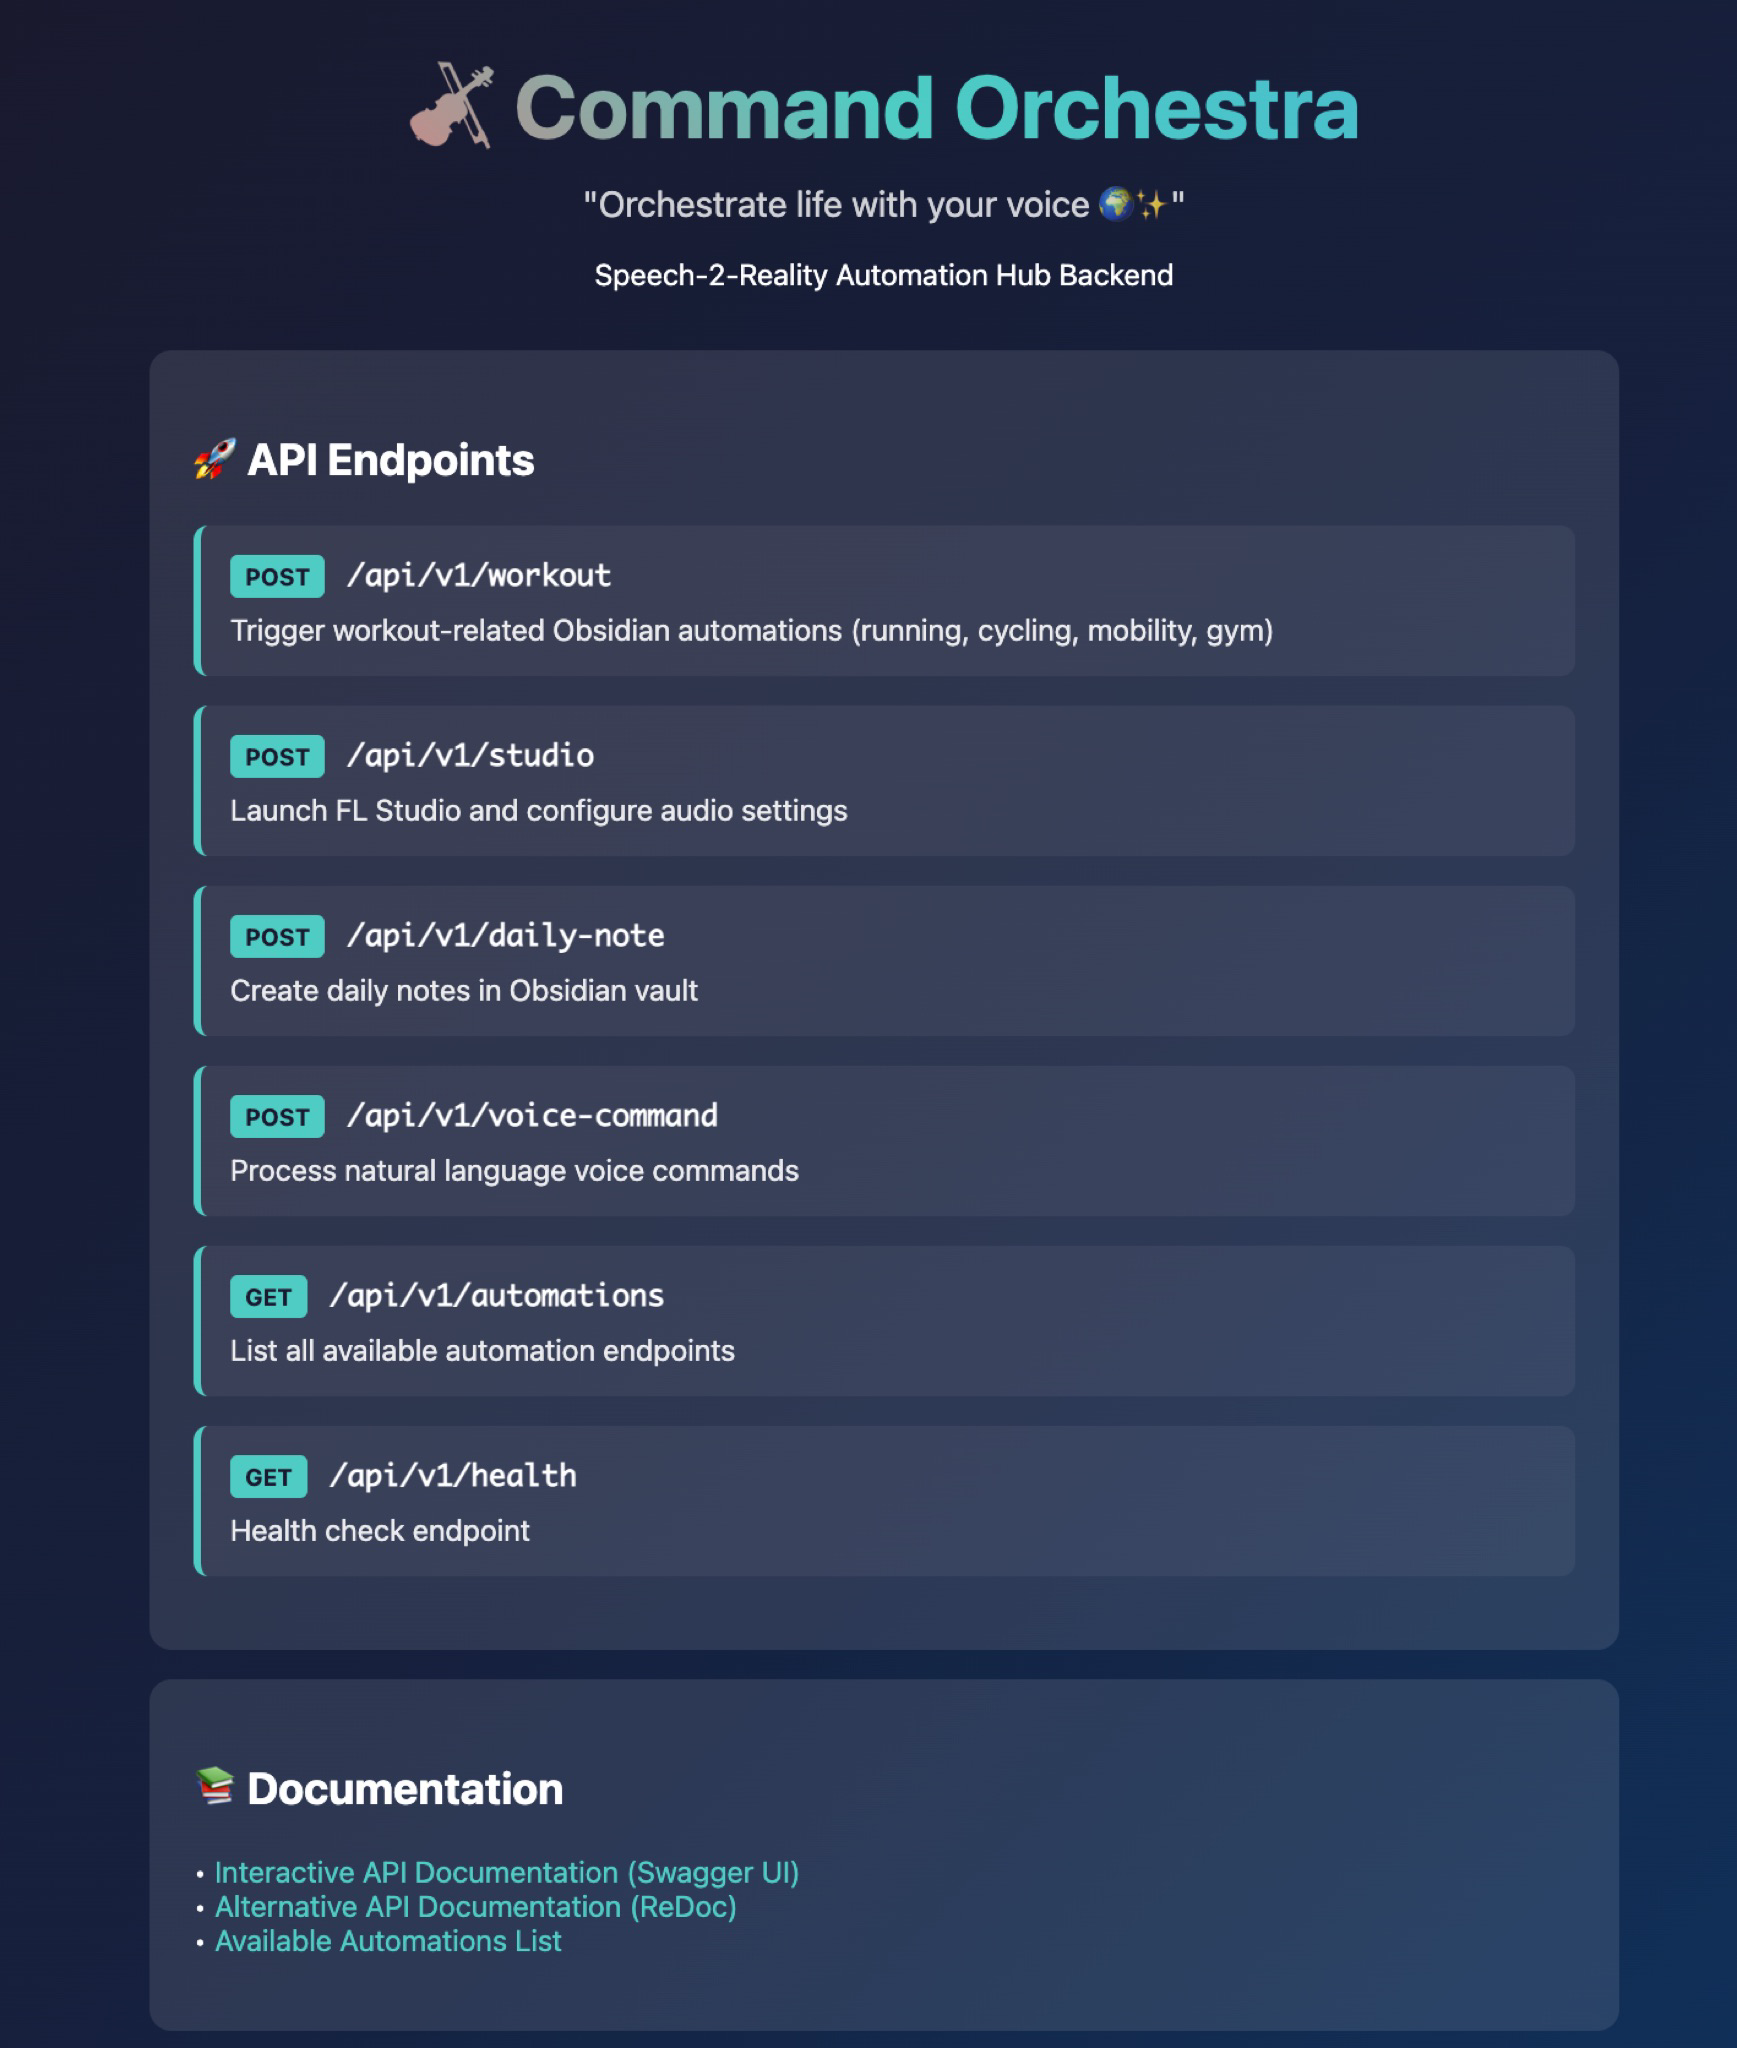
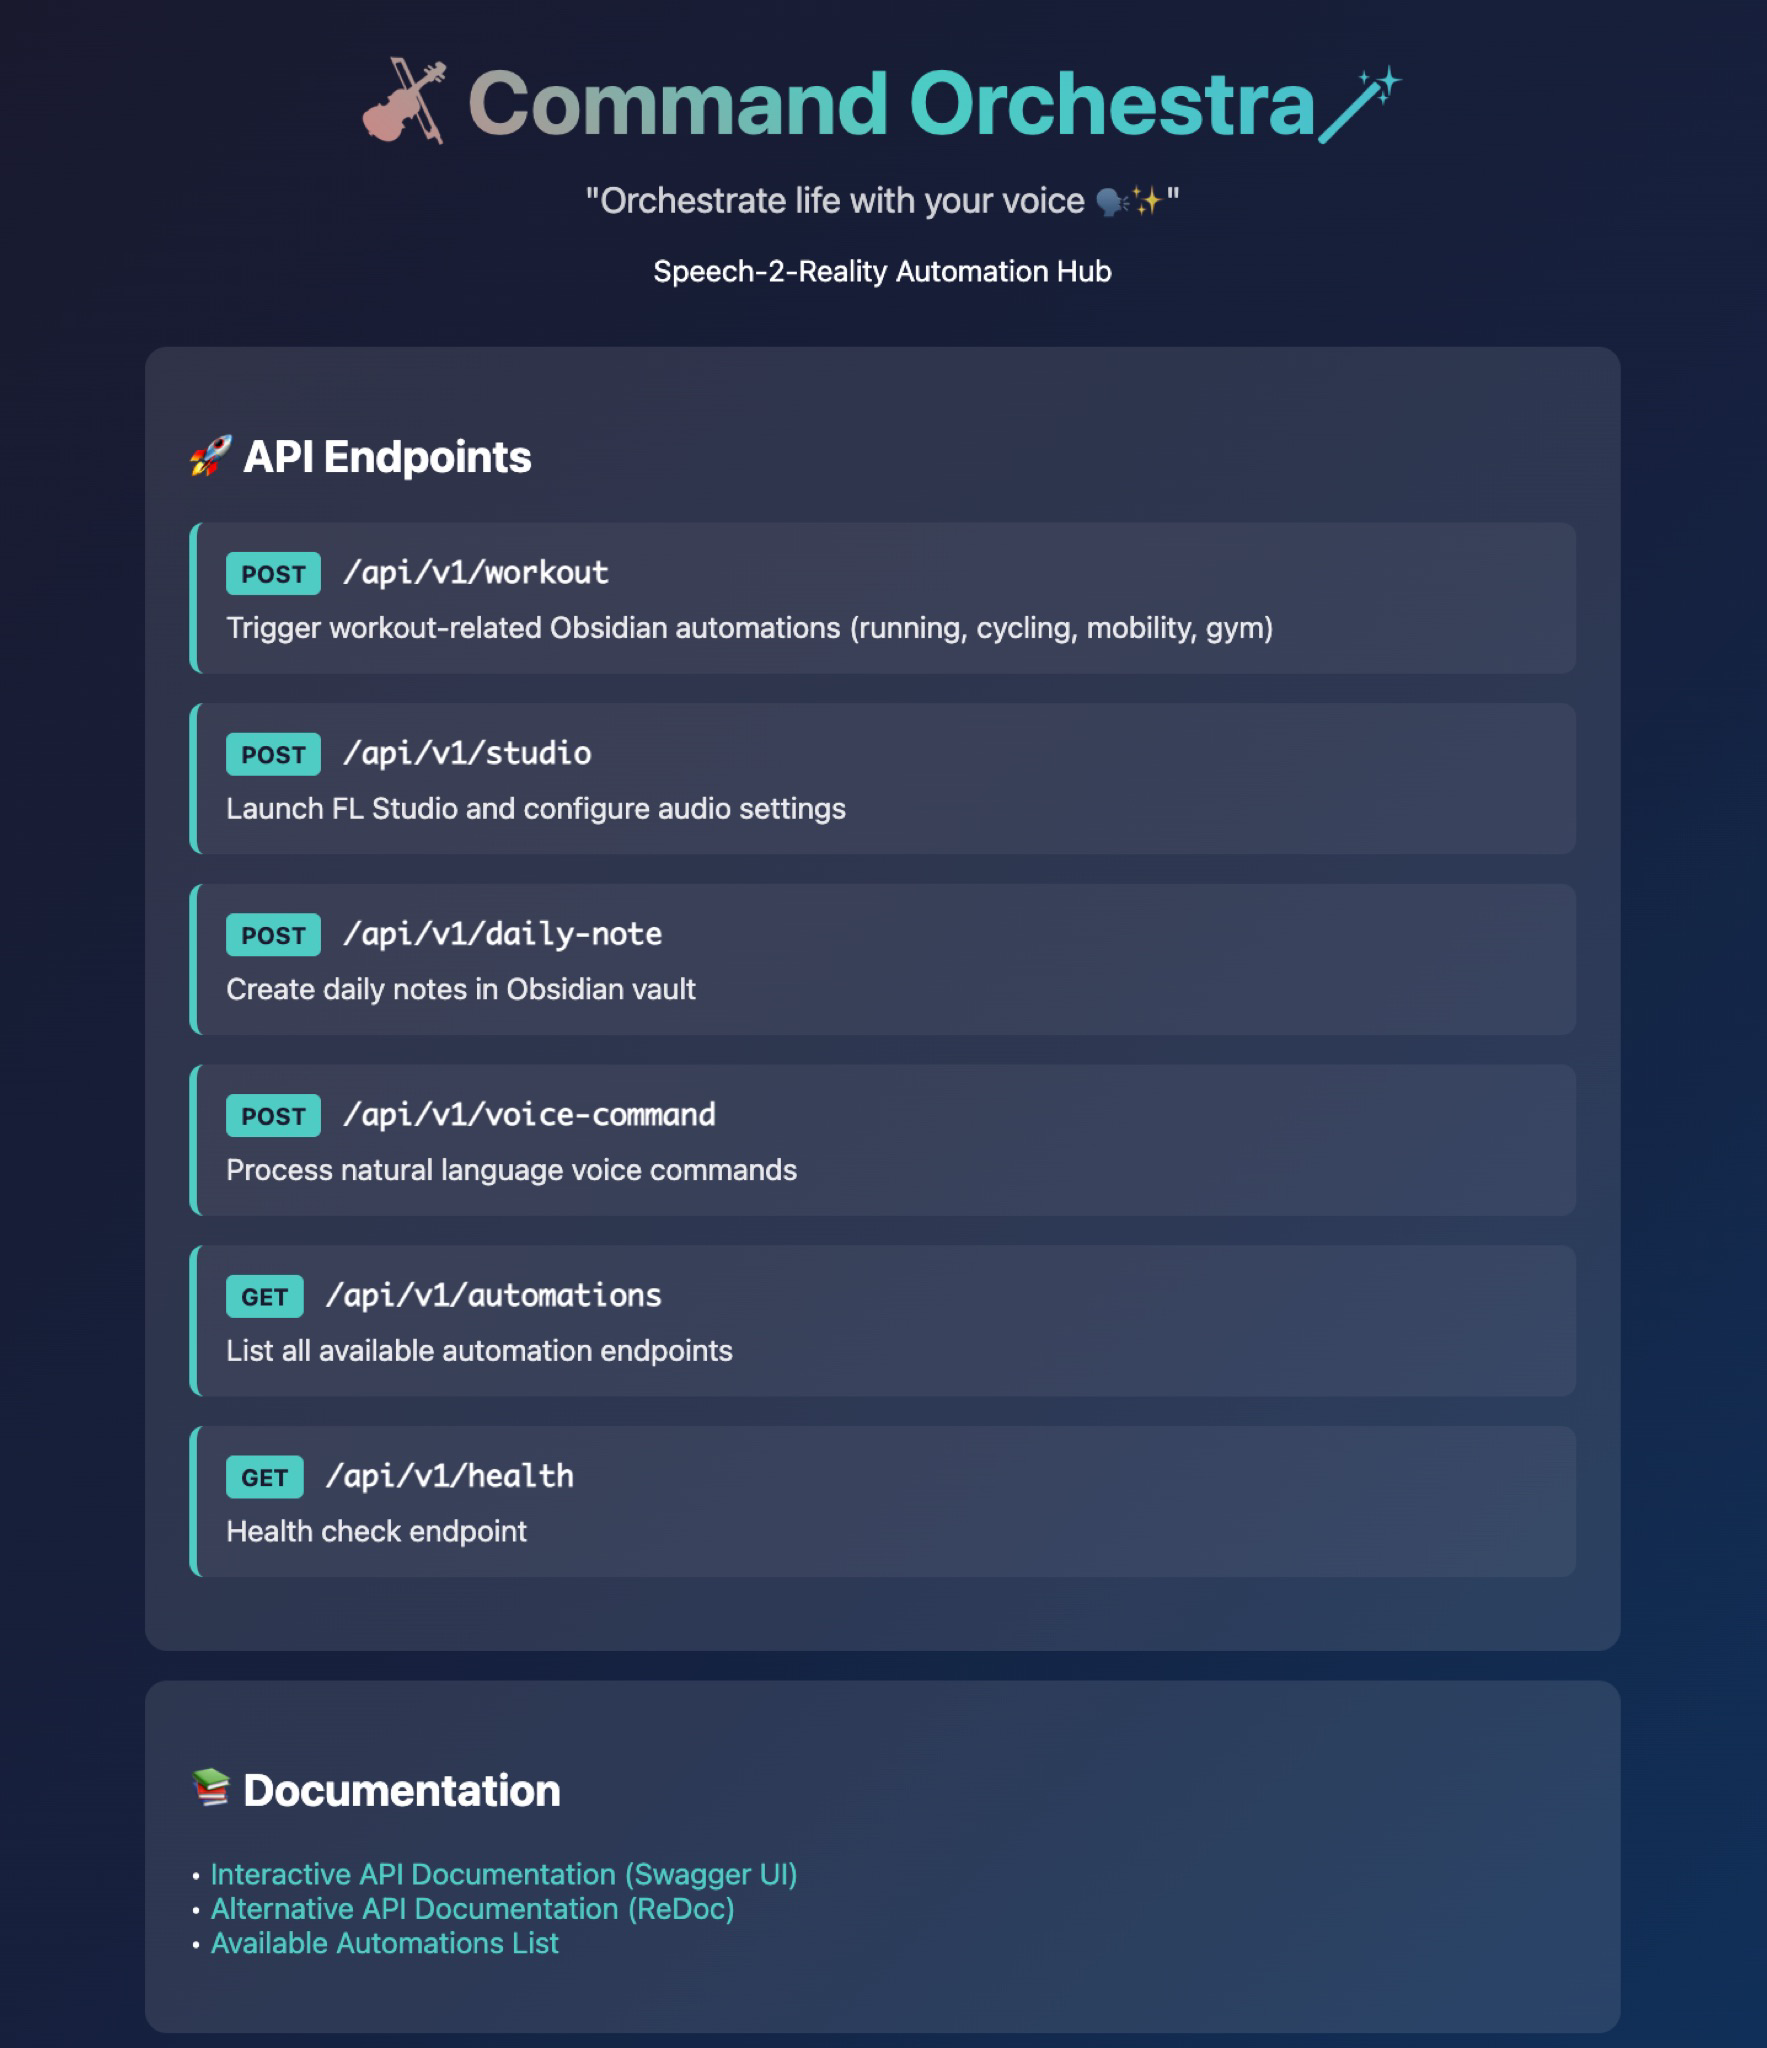
Fix backend page

diff --git a/speech2action/api/main.py b/speech2action/api/main.py
@@ -118,9 +118,9 @@ async def root():
     </head>
     <body>
         <div class="header">
-            <h1 class="title">🎻 Command Orchestra</h1>
-            <p class="subtitle">"Orchestrate life with your voice 🌍✨"</p>
-            <p>Speech-2-Reality Automation Hub Backend</p>
+            <h1 class="title">🎻 Command Orchestra🪄</h1>
+            <p class="subtitle">"Orchestrate life with your voice 🗣✨"</p>
+            <p>Speech-2-Reality Automation Hub</p>
         </div>
         
         <div class="endpoints">
